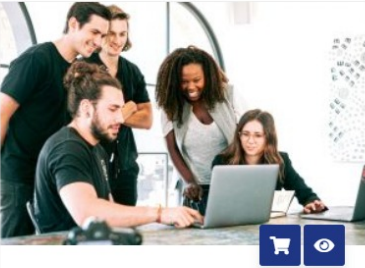
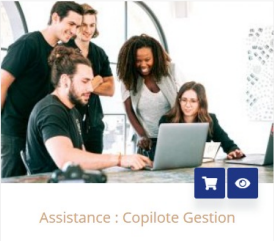
en attente du footer

diff --git a/Nos logiciel.html b/Nos logiciel.html
@@ -26,43 +26,35 @@
         </nav>    
     </header>
    
-    <section class="First">
-        <div id="Image"><img src="Image/Nos logiciel/nos log.png" alt="logiciel"></div>
-        <div class="Countainer">
-            <img src="Image/Nos logiciel/A.png" alt="A">
-            <div class="info">
-                <h3>Bilans comparés</h3>
-                <div class="btn">
-                    <p><a href="##">LIRE LA SUITE</a></p>
-                </div>
-            </div>
+    <div class="image">
+        <img src="Image/Nos logiciel/nos log.png" alt="image1">
+    </div>
+     
+    <div class="article">
+        <div>
+            <li><img src="Image/Nos logiciel/A.png" alt=""></li>
+            <h2>Bilans Comparés</h2>
+            <a href="#"><img src="Image/Nos logiciel/BB.png" alt="BB"></a>
         </div>
-        <div class="Container">
-            <img src="Image/Nos logiciel/B.png" alt="B">
-            <div class="info">
-                <h3>Prévisionnel</h3>
-                <div class="btn">
-                    <p><a href="##">AJOUTER AU PANIER</a></p>
-                </div>
-            </div>
+        <div>
+            <li><img src="Image/Nos logiciel/B.png" alt=""></li>
+            <h2>Prévisionnel</h2>
+            <a href="#"><img src="Image/Nos logiciel/AA.png" alt="AA"></a>
         </div>
-        <div class="Container">
-            <img src="Image/Nos logiciel/C.png" alt="C">
-            <div class="info">
-                <h3>Contrôle RSI</h3>
-                <div class="btn">
-                    <p><a href="##">AJOUTER AU PANIER</a></p>
-                </div>
-            </div>
+        <div>
+            <li><img src="Image/Nos logiciel/C.png" alt=""></li>
+            <h2>Bilans Comparés</h2>
+            <a href="#"><img src="Image/Nos logiciel/AA.png" alt="AA"></a>
         </div>
-    </section>
+    </div>
 
-    <section class="Second">
+
+    <section class="second">
          <div class="Last">
             <div class="title">
                 <h2>Derniers articles</h2>
             </div>
-            <div class="article">
+            <div class="second-article">
                 <ul>
                     <li><p>&rarr;Aide-Bilans Comparés</p></li>
                     <li><p>&rarr;Vers une nouvelle crise économique</p></li>

diff --git a/index.html b/index.html
@@ -26,5 +26,48 @@
         </nav>    
     </header>
    
+    <div class="footer-entier">
+        <div class="footer">
+            
+              <ul>
+                <li><h4>AGI</h4></li>
+               <li><a href="Nos logiciel.html">Nos logiciels</a></li>
+               <li><a href="Nos abonements.html">Nos abonnements</a></li>
+               <li><a href="special etudiant.html">Espaces étudians</a></li>
+            </ul>
+    
+           
+             <ul>
+                <li> <h4>Liens utiles</h4></li>
+                <li><a href="#">Utilitaires Excel</a></li>
+                <li><a href="#">Actualités</a></li>
+                <li><a href="#">Mentions légales</a></li>
+                <li><a href="#">CGV</a></li>
+            </ul>
+    
+            
+            <ul>
+                <li><h4>Nous contacter</h4></li>
+                <li><a href="#"><i class=""></i>17,Rue paule tiffy 34500 Béziers</a></li>
+                <li><a href="#"><i class=""></i>06 08 89 21 64</a></li>
+                <li><a href="#"><i class=""></i>agi.expert34@gmail.com</a></li>
+            </ul>
+    
+            <ul class="social-icons">
+               <li><a href="#"><i class="fab fa-facebook"></i></a></li>
+               <li><a href="#"><i class="fab fa-linkedin"></i></a></li>
+               <li><a href="#"><i class="fab fa-youtube"></i></a></li>
+            </ul> 
+            </div>
+    
+        <div> 
+         <footer>
+            <hr>
+            <p>copyright &copy;2021 AGI Propulsé par ILO Madagascar</p>
+           </footer>
+        </div>
+         
+      </div>     
+
 </body>
 </html>

diff --git a/Nos prestation.html b/Nos prestation.html
@@ -25,28 +25,22 @@
         </nav>    
     </header>
     
-    <section>
-        <div id="Image"><img src="Image/Nos prestation/Nos pres.png" alt=""></div>
-        <div class="countainer">
-            <img src="Image/Nos prestation/A.png" alt="A">
-            <h4><a href="##">Assistance : Copilote Gestion</a></h4>
-        </div>
-        <div class="countainer">
-            <img src="Image/Nos prestation/B.png" alt="B">
-            <h4><a href="##">Transmission & Acquisition</a></h4>
-        </div>
-        <div class="countainer">
-                <img src="Image/Nos prestation/C.png" alt="C">
-            <h4><a href="##">Spécial étudiants</a></h4>
-        </div>
-    </section>
+    <div class="image">
+        <img src="Image/Nos prestation/Nos pres.png" alt="image1">
+    </div>
+     
+    <div class="article">
+        <li> <a href="#"><img src="Image/Nos prestation/A.png" alt="image3"></a></li>
+        <li><a href="#"><img src="Image/Nos prestation/B.png" alt="image2"></a></li>
+        <li><a href="#"><img src="Image/Nos prestation/C.png" alt="image2"></a></li>
+    </div>
 
-    <section>
+    <section class="second">
         <div class="Last">
             <div class="title">
                 <h2>Derniers articles</h2>
             </div>
-            <div class="article">
+            <div class=" second-article">
                 <ul>
                     <li><p>&rarr;Aide-Bilans Comparés</p></li>
                     <li><p>&rarr;Vers une nouvelle crise économique</p></li>

diff --git a/Nos logiciel.css b/Nos logiciel.css
@@ -39,46 +39,25 @@ body{
     color: rgb(172, 119, 94);
 }
 
-.First{
-    padding: 50px 20px;
-    text-align: center;
-}
-
-.container{
-    background-color: #ccc;
-    padding: 10px;
-    border-radius: 10px;
-    width: 300px;
-    text-align: center;
-}
-
-.container h3{
-    color: #1a1a1a;
-}
-
-.btn{
-    background-color: #1a1a1a;
-    color: white;
-    padding: 4px 10px;
-    width: 170px;
-    text-decoration: none;
-}
-
-.btn p{
-    text-decoration: none;
-}
-
-.btn:hover{
-    cursor: pointer;
-    background-color: grey;
-}
-
-.container p{
-    text-decoration: none;
+.article{
+    display: flex;
+    justify-content: space-between;
+    align-items: center;
+    background-color: rgba(255, 255, 255, 0.934);
+    color: grey;
+    list-style-type: none;
 }
 
 .title{
-    color: rgb(23, 23, 112);
+    color: rgba(48, 48, 167, 0.904);
+}
+
+.second-article ul li{
+    list-style-type: none;
+}
+
+.second-article ul li p{
+    color: grey;
 }
 
 .footer-entier{

diff --git a/style.css b/style.css
@@ -38,3 +38,46 @@ body{
 .navlinks li a:hover{
     color: rgb(172, 119, 94);
 }
+
+.footer-entier{
+    background-color: rgba(52, 52, 109, 0.621);
+ }
+
+ .footer{
+    display: flex;
+    justify-content: space-between;
+    align-items: center;
+    background-color: rgba(52, 52, 109, 0.621);
+    color: bisque;
+ }
+
+  .footer ul{
+    margin-left: -5px;
+  }
+
+ .footer li{
+    list-style-type: none;
+ }
+
+ .footer ul li a {
+    text-decoration: none;
+ }
+ 
+.social-icons {
+    display: flex;
+    justify-content: center;
+    gap: 10px;
+    margin-top: 15px;
+}
+
+.social-icons a {
+    color: blue;
+    font-size: 1.2rem;
+    transition: color 0.3s ease, transform 0.3s ease;
+}
+
+.social-icons a:hover {
+    color: blue;
+    transform: translateY(-3px);
+}
+

diff --git a/Nos prestation.css b/Nos prestation.css
@@ -38,6 +38,25 @@ body{
     color: rgb(172, 119, 94);
 }
 
+.article{
+    display: flex;
+    justify-content: space-between;
+    align-items: center;
+    background-color: rgba(255, 255, 255, 0.934);
+    color: bisque;
+}
+
+.title{
+    color: rgba(48, 48, 167, 0.904);
+}
+
+.second-article ul li{
+    list-style-type: none;
+}
+
+.second-article ul li p{
+    color: grey;
+}
 
 .footer-entier{
     background-color: rgba(52, 52, 109, 0.621);
